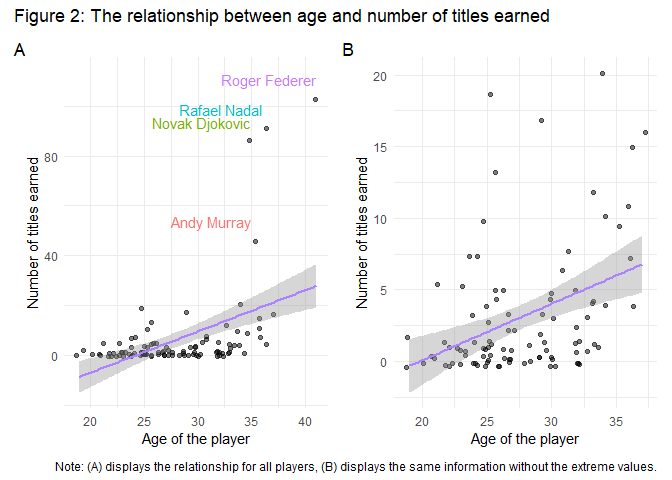
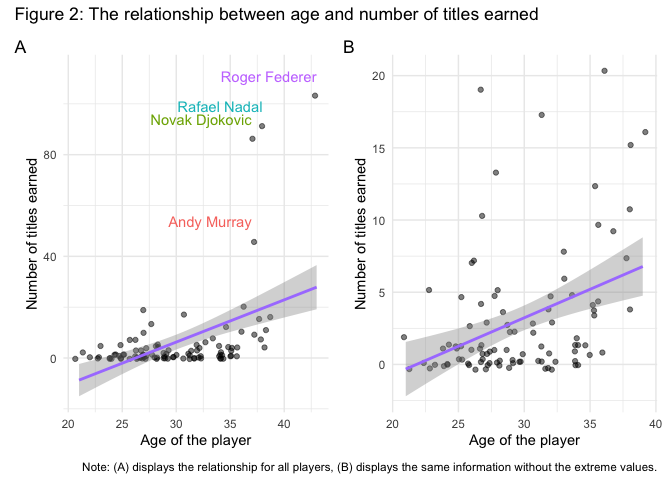
Rerun the Rmd file

diff --git a/tennisplayers.md b/tennisplayers.md
@@ -1,23 +1,21 @@
-Part 2: More Complicated Data Collection
+Tennis Players
 ================
 Zeynep Aslan
 
--   [World’s Top 100 Male Tennis
-    Players](#worlds-top-100-male-tennis-players)
-    -   [1. Nationality of the players](#1-nationality-of-the-players)
-    -   [2. Age of the players](#2-age-of-the-players)
-    -   [3. Prize money earned](#3-prize-money-earned)
-    -   [4. Heights of the players](#4-heights-of-the-players)
-    -   [5. Handedness of the players](#5-handedness-of-the-players)
-    -   [6. Statistics](#6-statistics)
-        -   [Aces](#aces)
-        -   [Service and Return Points
-            Won](#service-and-return-points-won)
-    -   [7. Models](#7-models)
-        -   [Basic Linear Regression
-            Model](#basic-linear-regression-model)
-        -   [Decision Tree Model](#decision-tree-model)
-        -   [Best Model](#best-model)
+- [World’s Top 100 Male Tennis
+  Players](#worlds-top-100-male-tennis-players)
+  - [1. Nationality of the players](#1-nationality-of-the-players)
+  - [2. Age of the players](#2-age-of-the-players)
+  - [3. Prize money earned](#3-prize-money-earned)
+  - [4. Heights of the players](#4-heights-of-the-players)
+  - [5. Handedness of the players](#5-handedness-of-the-players)
+  - [6. Statistics](#6-statistics)
+    - [Aces](#aces)
+    - [Service and Return Points Won](#service-and-return-points-won)
+  - [7. Models](#7-models)
+    - [Basic Linear Regression Model](#basic-linear-regression-model)
+    - [Decision Tree Model](#decision-tree-model)
+    - [Best Model](#best-model)
 
 <!-- IMPORTANT: To be able to reproduce this report, you need the tennis_players.csv data. Use data.scraping.R file to generate this data before trying to reproduce this report
 -->
@@ -39,7 +37,7 @@ that none of them are from the USA. Instead, Russia has the most players
 in the top 10 list, as no country other than Russia has more than 1
 player on the list.
 
-![](part2_tennisplayers_files/figure-gfm/nationality-plots-1.png)<!-- -->
+![](tennisplayers_files/figure-gfm/nationality-plots-1.png)<!-- -->
 
 ## 2. Age of the players
 
@@ -66,20 +64,20 @@ Max
 <tbody>
 <tr>
 <td style="text-align:right;">
-27.97
+29.97
 </td>
 <td style="text-align:right;">
-19
+21
 </td>
 <td style="text-align:right;">
-41
+43
 </td>
 </tr>
 </tbody>
 </table>
 
-Table 1 shows that the mean age of the players is 27.97 and the range is
-19 to 41. Considering that these are top 100 players of the world and
+Table 1 shows that the mean age of the players is 29.97 and the range is
+21 to 43. Considering that these are top 100 players of the world and
 therefore, are pretty advanced in their careers, it is not surprising
 that the mean age is not very low. By the same logic, we would expect
 older players to have more titles. Figure 2 below demonstrates this
@@ -93,16 +91,16 @@ same relationship by removing these extreme cases. There is a positive
 relationship between age and number of titles earned even without these
 influential data points.
 
-![](part2_tennisplayers_files/figure-gfm/age-plots-1.png)<!-- -->
+![](tennisplayers_files/figure-gfm/age-plots-1.png)<!-- -->
 
 ## 3. Prize money earned
 
 Figure 3 demonstrates the average prize money earned by the top 10
 players in a year. As can be seen from the graph **Novak Djokovic**
 earns by far the most money in a season. His closest follower, **Rafael
-Nadal** earns approximately $2 million dollars less than him.
+Nadal** earns approximately \$2 million less than him.
 
-![](part2_tennisplayers_files/figure-gfm/prize-money-1.png)<!-- -->
+![](tennisplayers_files/figure-gfm/prize-money-1.png)<!-- -->
 
 ## 4. Heights of the players
 
@@ -112,7 +110,13 @@ tennis players. Looking at the distribution, it is fair to conclude that
 100 players is 187.14cm, which is shown with the dotted line on the
 graph below.
 
-![](part2_tennisplayers_files/figure-gfm/height-1.png)<!-- -->
+    ## Warning: Using `size` aesthetic for lines was deprecated in ggplot2 3.4.0.
+    ## ℹ Please use `linewidth` instead.
+    ## This warning is displayed once every 8 hours.
+    ## Call `lifecycle::last_lifecycle_warnings()` to see where this warning was
+    ## generated.
+
+![](tennisplayers_files/figure-gfm/height-1.png)<!-- -->
 
 ## 5. Handedness of the players
 
@@ -121,7 +125,7 @@ players. Like most people, the majority of tennis players are
 right-handed. Specifically, as pie chart also demonstrates, 75% of the
 top 100 tennis players are right-handed.
 
-![](part2_tennisplayers_files/figure-gfm/handedness-plot-1.png)<!-- -->
+![](tennisplayers_files/figure-gfm/handedness-plot-1.png)<!-- -->
 
 ## 6. Statistics
 
@@ -136,7 +140,7 @@ Handedness, on the other hand, does not seem to affect the effectiveness
 of the services as both right and left-handed players seem to score
 similar number of aces in a year.
 
-![](part2_tennisplayers_files/figure-gfm/aces-1.png)<!-- -->
+![](tennisplayers_files/figure-gfm/aces-1.png)<!-- -->
 
 Figure 7, on the other hand, demonstrates the relationship between
 number of aces scored and number of [double
@@ -149,7 +153,7 @@ number of double faults also increases. There is one significant outlier
 in the data though, i.e., John Isner - he scores significantly more aces
 than he commits double faults compared to the other top 100 players.
 
-![](part2_tennisplayers_files/figure-gfm/ace-doublefault-1.png)<!-- -->
+![](tennisplayers_files/figure-gfm/ace-doublefault-1.png)<!-- -->
 
 ### Service and Return Points Won
 
@@ -159,7 +163,7 @@ see a consistent pattern - It seems that all 10 players are more
 successful in winning the games that they serve, suggesting that
 starting the game by serving gives the players an advantage.
 
-![](part2_tennisplayers_files/figure-gfm/service-return-1.png)<!-- -->
+![](tennisplayers_files/figure-gfm/service-return-1.png)<!-- -->
 
 ## 7. Models
 
